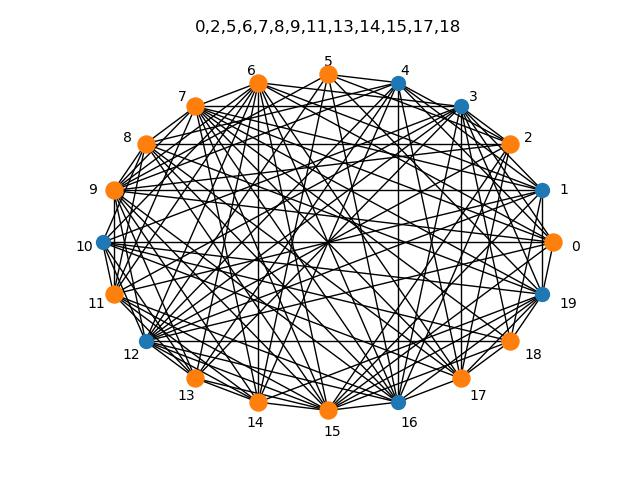
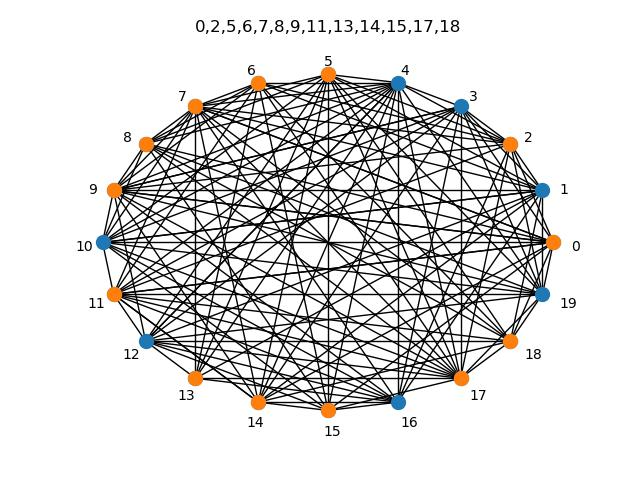
Fix edge spawning
When we additional edges, make sure they are actually covered by the vertices we chose in our cover

Changed region(s): [[0.1562, 0.125, 0.875, 0.875]]

diff --git a/vertex_cover.py b/vertex_cover.py
@@ -1,3 +1,12 @@
+"""
+Tyler Wilson 
+CS373 - Vertex Cover
+
+This program generates a random graph and then solves the vertex cover problem. 
+Using the graph, it creates a CNF formula and then uses the glucose solver to solve it.
+
+"""
+
 from cnf import CNF
 import numpy as np
 import matplotlib.pyplot as plt
@@ -43,6 +52,13 @@ class Graph:
         E = min(E, V*(V-1)//2)
         print("{:.3f} %% edges".format(100*E/(V*(V-1)/2)))
         
+        for i in range(int(V**(5/4))):
+            vertex = np.random.choice(self.K)
+            other_vertex = np.random.choice(self.V)
+            if (other_vertex != vertex):
+                if ((vertex, other_vertex) not in self.edges) & ((other_vertex, vertex) not in self.edges):
+                    self.edges.add((vertex, other_vertex))
+        
         for i in np.random.permutation(len(edges_left))[0:E-V]:
             self.edges.add(edges_left[i])
         print("E: ", len(self.edges))
@@ -70,7 +86,7 @@ class Graph:
         ## Draw the vertex cover
         for i in range(V):
             if i in cover:
-                plt.scatter(x[i], y[i], c='C1', s=150, zorder=101)
+                plt.scatter(x[i], y[i], c='C1', s=100, zorder=101)
         if len(cover) > 0:
             chunk_size = 20
             s = ""
@@ -103,8 +119,9 @@ class Graph:
                     if k != j:
                         cnf.add_clause([((i, j), False), ((i, k), False)])
                     # Each column has at most one 1
-                    if k != i:
+                    if k != i and k < K:
                         cnf.add_clause([((i, j), False), ((k, j), False)])
+
 
     def get_at_least_one(self, cnf):
         """
@@ -119,7 +136,7 @@ class Graph:
         K = self.K
         for i in range(V):
             clause = []
-            for j in range(V): # no clue why but changing this to K makes my vscode crash
+            for j in range(V): #
                 clause.append(((i, j), True))
             cnf.add_clause(clause)
     
@@ -203,7 +220,7 @@ class Graph:
             
         # Step 2: Check that every edge is adjacent to at least one vertex
         #for (i, j) in self.edges:
-            #is_valid = is_valid and (i in perm or j in perm) 
+        #    is_valid = is_valid and (i in perm or j in perm)
             
         # Step 3: Check that every vertex not in perm is adjacent to at least one vertex 
         for v in range(self.K):
